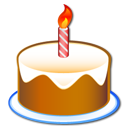
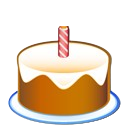
Update cake image to cake129.png and enhance candle flame display

diff --git a/effect.js b/effect.js
@@ -132,7 +132,8 @@ $('document').ready(function(){
 	});
 
 	$('#light_candle').click(function(){
-		// Show candle flames over the PNG cake image
+		// Replace cake image with cake129.png and show candle flames
+		$('.cake-png').attr('src', 'cake129.png');
 		$('.velas').fadeIn('slow');
 		$('.fuego').fadeIn('slow');
 		$(this).fadeOut('slow').promise().done(function(){
